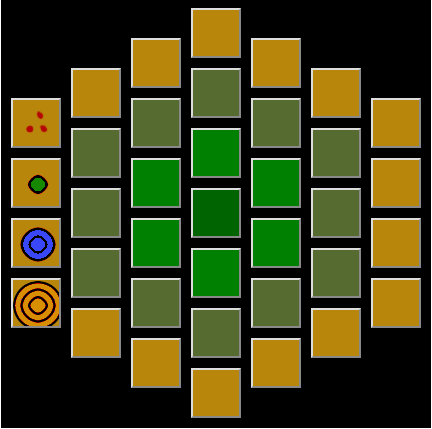
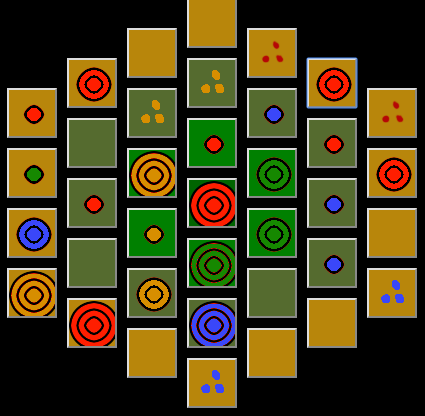
player selector

Changed region(s): [[0.0, 0.0, 1.0, 1.0], [0.0, 0.9688, 0.0306, 1.0]]

diff --git a/index.html b/index.html
@@ -381,6 +381,12 @@ function growIndex(hexIndex){
 	if(currentHex.piece !== null){
 		grow(currentHex);
 		updateImage(hexIndex);
+	} else {
+		var dropPlayer = $("#playerselect").val();
+		var seedPiece = new piece();
+		seedPiece.player = dropPlayer;
+		currentHex.piece = seedPiece;
+		updateImage(hexIndex);
 	}
 }
 
@@ -423,6 +429,14 @@ for(rowIndex = 0; rowIndex < 4; rowIndex++){
 	indexMap += 1;
 }
 </script>
+<div>
+Player<select id="playerselect">
+<option value="0">Red<option>
+<option value="1">Green<option>
+<option value="2">Blue<option>
+<option value="3">Orange<option>
+</select>
+</div>
 
 </body>
 </html>
